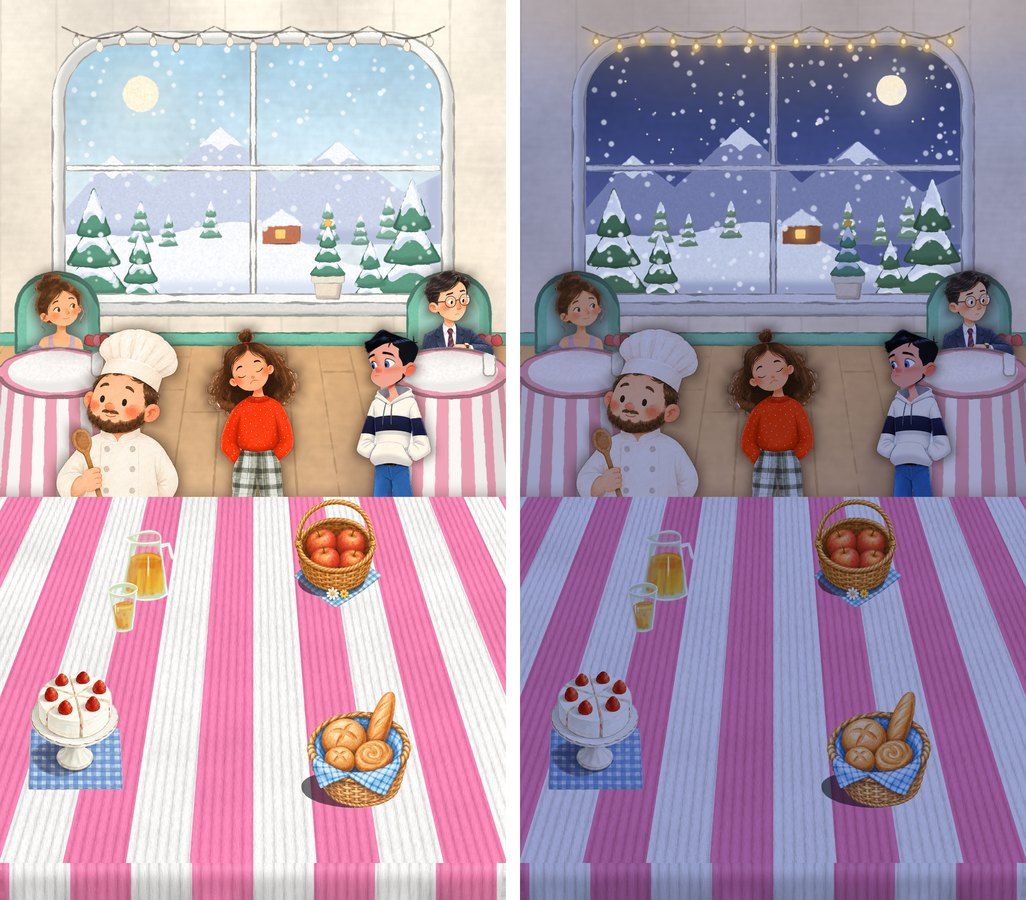
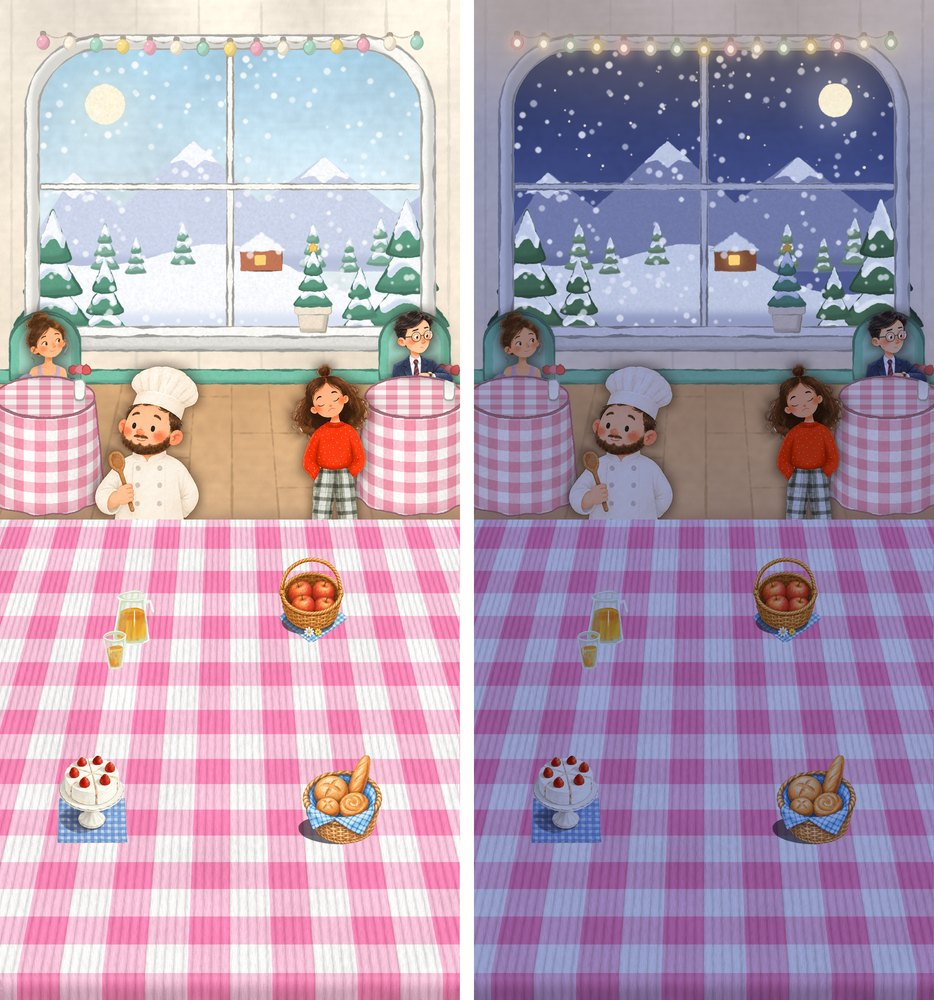
Report: C chapter drafts after the owner's late notes (dessert-styled winter cabin in front of the truck, gingham in four textures with the drop placed like the game, four winter rooms at phone size); Mechanisms published

diff --git a/Docs/tools/report_page/index.html b/Docs/tools/report_page/index.html
@@ -75,7 +75,7 @@ h3 small{font-weight:600;color:var(--soft);font-size:13px;margin-left:6px}
 <div class="grid">
 <div class="who p1"><h3>You</h3>
 <p><b>Release 2026.11.24 is submitted</b> (24 November, 13:00) with everything that was in MVP, your What's New, the new description and promotional text. It goes live by itself once Apple approves. Test build 2026.11.24 (1) in TestFlight is the same build.</p>
-<p><b>C chapter:</b> shop pages, the candy corduroy cloth and four cabin rooms, each by day and night, are in Current with ticks. Tomorrow ChatGPT restyles your picks.</p>
+<p><b>C chapter:</b> shop pages (cabin in front), the gingham cloth in four textures and four winter rooms, each by day and night, are in Current with ticks. Tomorrow after 10:00 ChatGPT restyles your picks.</p>
 </div>
 <div class="who p2"><h3>Me</h3>
 <p>Header E3 was approved and is live on the store page (24 November evening). I watch the 2026.11.24 review; it goes live by itself.</p>
@@ -86,28 +86,26 @@ h3 small{font-weight:600;color:var(--soft);font-size:13px;margin-left:6px}
 <p class="sub" style="margin:0 0 8px">Nothing open.</p>
 
 <h2 id="current"><span class="n">3</span>Current</h2>
-<p class="sub" style="margin:0 0 8px">C chapter brainstorm, 24 November night. Your notes taken as suggestions, plus my own ideas. Every picture has day and night.</p>
-
+<p class="sub" style="margin:0 0 8px">C chapter brainstorm, 24 November night: winter everywhere, every picture by day and night. Your notes as suggestions, plus my own ideas.</p>
 <div class="card">
-<p style="margin-top:0"><b>Shop page, same layout as chapters 1 and 2.</b> <small>Each sheet: chapter 1, chapter 2, then the C chapter day and night. The truck sits exactly where it does in chapters 1 and 2.</small></p>
-<figure style="margin:8px 0"><img src="c24/shop_desert.jpg" alt="Chapter 1 and 2 shop pages beside a desert C chapter page by day and night: a peach adobe cafe with a mint door and wreath next to the red truck, saguaros framing the top corners, mesas, lights across, calm sand, round cacti in the bottom corners" style="width:100%;border-radius:8px"><figcaption>Desert: adobe cafe, saguaros, mesas.</figcaption></figure><figure style="margin:8px 0"><img src="c24/shop_winter.jpg" alt="Chapter 1 and 2 shop pages beside a winter C chapter page by day and night: a pink cabin with a red roof under snow and a mint door, a snowman, big snowy pines in the top corners, lights across, calm snow" style="width:100%;border-radius:8px"><figcaption>Winter: pink cabin, snowy pines.</figcaption></figure><figure style="margin:8px 0"><img src="c24/shop_candy.jpg" alt="Chapter 1 and 2 shop pages beside a candy C chapter page by day and night: a gingerbread cafe with a pink iced roof and gumdrops, giant swirl lollipops in the top corners, pink and mint frosting hills, candy canes and gumdrops in the bottom corners" style="width:100%;border-radius:8px"><figcaption>My idea: gingerbread cafe on a candy hill.</figcaption></figure><ul class="checks"><li><label><input type="checkbox" data-id="cur.c24.shop.desert"> Desert</label></li><li><label><input type="checkbox" data-id="cur.c24.shop.winter"> Winter</label></li><li><label><input type="checkbox" data-id="cur.c24.shop.candy"> Gingerbread</label></li></ul>
+<p style="margin-top:0"><b>Shop page: the cabin in front, the truck parked behind.</b> <small>Each sheet: chapter 1, chapter 2, then the C chapter day and night. Lights only on the house.</small></p>
+<figure style="margin:8px 0"><img src="c24/shop_dessert.jpg" alt="Chapter 1 and 2 shop pages beside the C chapter dessert cabin by day and night: a real wooden cabin styled like a strawberry shortcake, cream plank walls with a pink band, a red roof under puffy whipped-cream snow with white scallops, a cherry-red chimney, a blank cupcake sign, a window with a cake stand and cupcakes under a pink scalloped awning, a mint door with a wreath, pastel bulbs along the eave; the red truck smaller behind on the right; snowy pines framing the top, a snowman, calm snow below" style="width:100%;border-radius:8px"><figcaption>Dessert cabin: styled like a strawberry shortcake.</figcaption></figure><figure style="margin:8px 0"><img src="c24/shop_winter2.jpg" alt="Chapter 1 and 2 shop pages beside the pink winter cabin by day and night, big in front with the truck behind" style="width:100%;border-radius:8px"><figcaption>Winter: my pink cabin.</figcaption></figure><figure style="margin:8px 0"><img src="c24/shop_ginger.jpg" alt="Chapter 1 and 2 shop pages beside a gingerbread cafe on snowy hills with swirl lollipops in the top corners, by day and night" style="width:100%;border-radius:8px"><figcaption>My idea: gingerbread cafe in the snow.</figcaption></figure><ul class="checks"><li><label><input type="checkbox" data-id="cur.c24b.shop.dessert"> Dessert cabin</label></li><li><label><input type="checkbox" data-id="cur.c24b.shop.winter"> Pink winter cabin</label></li><li><label><input type="checkbox" data-id="cur.c24b.shop.ginger"> Gingerbread</label></li><li><label><input type="checkbox" data-id="cur.c24b.shop.more"> More ideas</label></li></ul>
 <p style="margin:8px 0 0;font-size:14px">Tomorrow after 10:00 ChatGPT repaints the page you pick in our art style, free to adjust it.</p>
 </div>
 
 <div class="card">
-<p style="margin-top:0"><b>Table cloth: candy pink and bright white, corduroy.</b> <small>Same perspective and front drop as chapters 1 and 2.</small></p>
-<figure style="margin:8px 0"><img src="c24/cloths.jpg" alt="Two candy pink and white corduroy cloths in the game perspective with their front drops: wide stripes, and gingham with light pink bands" style="width:100%;border-radius:8px"><figcaption>Stripes and gingham, each with its drop.</figcaption></figure><ul class="checks"><li><label><input type="checkbox" data-id="cur.c24.cloth.stripes"> Stripes</label></li><li><label><input type="checkbox" data-id="cur.c24.cloth.gingham"> Gingham</label></li></ul>
+<p style="margin-top:0"><b>Table cloth: candy-pink gingham, four textures.</b> <small>Phone size, laid out like the game. The drop now joins the table: the mocks had hung it at the bottom of the picture, the game hangs it at the cloth's edge line.</small></p>
+<figure style="margin:8px 0"><img src="c24/cloths.jpg" alt="Four candy pink and white gingham cloths at phone size with their drops: corduroy ribs, waffle weave squares, fine linen, and puffy quilted diamonds" style="width:100%;border-radius:8px"><figcaption>1 corduroy, 2 waffle weave, 3 linen, 4 quilted.</figcaption></figure><figure style="margin:8px 0"><img src="c24/cloth_join.jpg" alt="Close-ups of the four cloths where the table top bends into the front drop; the checks run on without a break" style="width:100%;border-radius:8px"><figcaption>Where the top meets the drop.</figcaption></figure><ul class="checks"><li><label><input type="checkbox" data-id="cur.c24b.cloth.cord"> Corduroy</label></li><li><label><input type="checkbox" data-id="cur.c24b.cloth.waffle"> Waffle weave</label></li><li><label><input type="checkbox" data-id="cur.c24b.cloth.linen"> Linen</label></li><li><label><input type="checkbox" data-id="cur.c24b.cloth.quilt"> Quilted</label></li></ul>
 </div>
 
 <div class="card">
-<p style="margin-top:0"><b>Inside the cabin, my four rooms.</b> <small>Very simple decoration; a row of lights above the window, lit at night. Customers at the two side tables sit facing you behind floor-length cloths, so they are our existing pictures cut at the table: no new sitting art. The table is a little smaller than in chapters 1 and 2.</small></p>
-<figure style="margin:8px 0"><img src="c24/room_desert_1.jpg" alt="Desert room 1 by day and night: cream adobe walls, terracotta tiles, an arched window onto mesas and cacti, two cacti on the sill, one with a tiny star; the yoga lady and businessman seated at side tables in long pink-striped cloths; chef, girl and boy standing; candy-stripe cloth with four foods" style="width:100%;border-radius:8px"><figcaption>Desert 1: cream adobe, cactus with a star.</figcaption></figure><figure style="margin:8px 0"><img src="c24/room_desert_2.jpg" alt="Desert room 2 by day and night: peach adobe walls, wood floor, a chili string by the window, a prickly pear with a star on the sill, a striped woven rug, pink chairs" style="width:100%;border-radius:8px"><figcaption>Desert 2: peach adobe, chili string, rug.</figcaption></figure><figure style="margin:8px 0"><img src="c24/room_snow_1.jpg" alt="Snowy room by day and night: cream plank walls, mint chairs, a window onto snowy pines and a tiny lit cabin, a potted pine with a star" style="width:100%;border-radius:8px"><figcaption>Winter: snowy pines outside.</figcaption></figure><figure style="margin:8px 0"><img src="c24/room_blossom_1.jpg" alt="Blossom room by day and night: cream walls with a mint panel, a window onto green hills and round pink blossom trees, a blossom vase on the sill" style="width:100%;border-radius:8px"><figcaption>My idea: blossom cabin, spring.</figcaption></figure><ul class="checks"><li><label><input type="checkbox" data-id="cur.c24.room.desert1"> Desert 1</label></li><li><label><input type="checkbox" data-id="cur.c24.room.desert2"> Desert 2</label></li><li><label><input type="checkbox" data-id="cur.c24.room.snow1"> Winter</label></li><li><label><input type="checkbox" data-id="cur.c24.room.blossom1"> Blossom</label></li><li><label><input type="checkbox" data-id="cur.c24.room.more"> More ideas</label></li></ul>
+<p style="margin-top:0"><b>Inside the cabin: four winter rooms.</b> <small>Phone size, framed like the game (the sides a phone cuts off are left out). Very simple decoration, cute pastel lights above the window, lit at night. Customers at the side tables sit facing you behind long gingham cloths: our existing pictures, no new sitting art. The table is a little smaller (its top at 52 % of the screen; chapters 1 and 2: 50 %).</small></p>
+<figure style="margin:8px 0"><img src="c24/room_dessert_1.jpg" alt="Strawberry shortcake room by day and night: cream walls, pink lower panel and pink valance with cream scallops, a strawberry cake under a glass dome on the sill, a snowy window; the yoga lady and the businessman seated at side tables in long pink gingham cloths; chef and girl standing; candy-pink corduroy gingham cloth with four foods" style="width:100%;border-radius:8px"><figcaption>Dessert 1: strawberry shortcake.</figcaption></figure><figure style="margin:8px 0"><img src="c24/room_dessert_2.jpg" alt="Mint chocolate room by day and night: mint walls, cocoa lower panel and valance with cream scallops, cream chairs, a pastel macaron tower with a tiny star on the sill, a snowy window" style="width:100%;border-radius:8px"><figcaption>Dessert 2: mint chocolate.</figcaption></figure><figure style="margin:8px 0"><img src="c24/room_snow_1.jpg" alt="Snowy cabin room by day and night: cream planks, mint chairs, a window onto snowy pines and a tiny lit cabin, a potted pine with a star" style="width:100%;border-radius:8px"><figcaption>Winter 1: cream cabin.</figcaption></figure><figure style="margin:8px 0"><img src="c24/room_snow_2.jpg" alt="Frosty blue room by day and night: blue walls, red chairs, a window onto a frozen pond and a snowman, an iron lantern lit at night" style="width:100%;border-radius:8px"><figcaption>Winter 2: frosty blue, snowman outside.</figcaption></figure><ul class="checks"><li><label><input type="checkbox" data-id="cur.c24b.room.d1"> Dessert 1</label></li><li><label><input type="checkbox" data-id="cur.c24b.room.d2"> Dessert 2</label></li><li><label><input type="checkbox" data-id="cur.c24b.room.s1"> Winter 1</label></li><li><label><input type="checkbox" data-id="cur.c24b.room.s2"> Winter 2</label></li><li><label><input type="checkbox" data-id="cur.c24b.room.more"> More ideas</label></li></ul>
 </div>
 
 <div class="card">
-<p style="margin-top:0"><b>ChatGPT's room in our kitchen's style.</b> <small>You liked ChatGPT's room but not its decoration style. Left: ChatGPT's. Right: Gemini repainting it in the style of our kitchen background, chairs moved behind the tables.</small></p>
+<p style="margin-top:0"><b>ChatGPT's room in our kitchen's style.</b> <small>Left: ChatGPT's. Right: Gemini repainting it in the style of our kitchen background, seats behind the tables.</small></p>
 <figure style="margin:8px 0"><img src="c24/gemini_restyle.jpg" alt="Left: ChatGPT warm wooden cabin with detailed glossy Christmas decorations. Right: the same room repainted flatter with soft outlines and fewer decorations, two front tables with a red booth behind them" style="width:100%;border-radius:8px"><figcaption>ChatGPT original, Gemini restyle.</figcaption></figure><ul class="checks"><li><label><input type="checkbox" data-id="cur.c24.gpt.restyle"> Keep going with this one</label></li></ul>
-<p style="margin:8px 0 0;font-size:14px">Tomorrow ChatGPT restyles it itself, with the seats facing you.</p>
 </div>
 
 <h2 id="mvp"><span class="n">4</span>MVP</h2>
